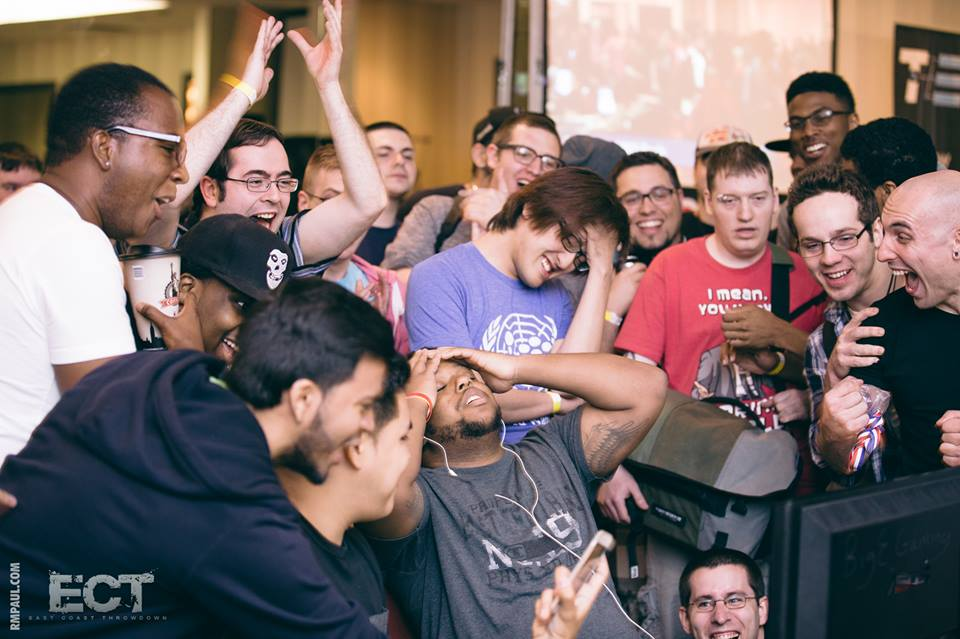
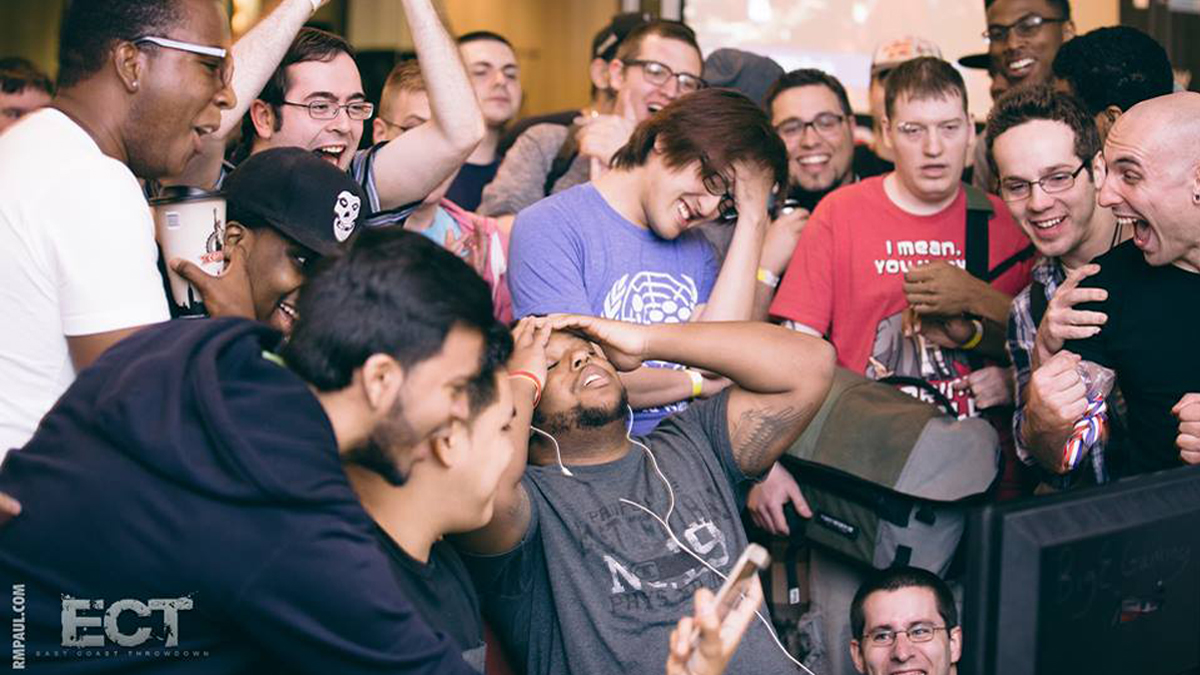
Edit carousel images
Added CSS, resized images

diff --git a/app/styles/app.scss b/app/styles/app.scss
@@ -10,6 +10,13 @@ h2 {
   text-align: center;
 }
 
+.carousel-inner > .item > img,
+.carousel-inner > .item > a > img {
+  margin: auto;
+  height: 40%;
+  width: 100%;
+}
+
 .text {
   font-family: 'Kreon', serif;
 }
